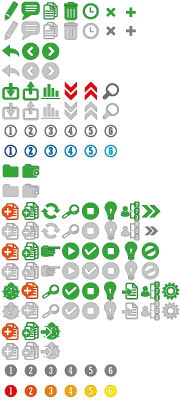
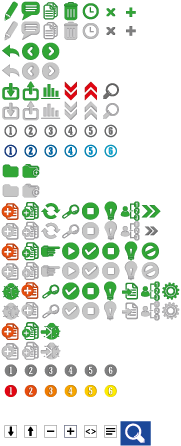
* adjust style.

diff --git a/www/theme/default/style.css b/www/theme/default/style.css
@@ -371,7 +371,7 @@ table.tablesorter thead tr .headerSortDown {background-image: url(./images/table
 .plan    {background:#ffcc00;}
 .plan a{color:green}
 .search  {display:block; float:left; clear:none; width:16px; height:16px; padding:0; margin:0 0 0 2px; text-indent:-2000px; overflow:hidden; background: url(images/main/search.gif) no-repeat;} 
-.button-search{width:40px; height:27px; padding:0; margin:0px; text-indent:-2000px; background: url(images/main/searchButton.jpg) no-repeat;} 
+.button-search{width:33px; height:24px; padding:0; margin:0px; text-indent:-2000px; background: url(images/main/zt-icons.png) -120px 24px;border-width:1px;} 
 .searchleft{display:block; float:left; clear:none;} 
 .helplink {font-size:9px}
 #bysearchTab a{color:red}
@@ -535,5 +535,9 @@ table.tablesorter thead tr .headerSortDown {background-image: url(./images/table
 #featurebar .f-right .icon-green-todo-create {padding:2px 8px;  background:url(images/main/zt-icons.png) 0px -202px;}
 #featurebar .f-right .icon-green-todo-batchCreate {padding:2px 8px;  background:url(images/main/zt-icons.png) -20px -202px;}
 
-.log-reverse{padding:2px 10px; background:url(images/main/log-reverse.png) center no-repeat}
-.switchDisplay{padding:2px 10px; background:url(images/main/switchdisplay.png) center no-repeat}
+.log-asc     {padding:2px 6px; background:url(images/main/zt-icons.png) -2px   25px;}
+.log-desc    {padding:2px 6px; background:url(images/main/zt-icons.png) -22px  25px;}
+.change-hide {padding:2px 8px; background:url(images/main/zt-icons.png) -42px  25px; border:0px;}
+.change-show {padding:2px 8px; background:url(images/main/zt-icons.png) -62px  25px; border:0px;}
+.diff-all    {padding:2px 9px; background:url(images/main/zt-icons.png) -80px  25px; border:0px}
+.diff-short  {padding:2px 9px; background:url(images/main/zt-icons.png) -100px 25px; border:0px}

diff --git a/module/user/js/common.js b/module/user/js/common.js
@@ -23,3 +23,19 @@ function switchAccount(account, method)
     location.href=link;
 }
 
+var mailsuffix = '';
+var account    = new Array();
+function setDefaultEmail(num)
+{
+    var mailValue = $('.email_' + num).val();
+    if(mailValue.indexOf('@') <= 0) return;
+    if(mailValue.indexOf('@') > 0) mailValue = mailValue.substr(mailValue.indexOf('@'));
+    mailsuffix = mailValue;
+}
+
+function changeEmail(num)
+{
+    var mailValue = $('.email_' + num).val();
+    if(mailsuffix != '' && (mailValue == '' || mailValue == account[num] + mailsuffix)) $('.email_' + num).val($('.account_' + num).val() + mailsuffix);
+    account[num] = $('.account_' + num).val();
+}

diff --git a/module/user/model.php b/module/user/model.php
@@ -222,39 +222,42 @@ class userModel extends model
      */
     public function batchCreate()
     {
-        $users = fixer::input('post')->get(); 
-        $data  = array();
+        $users    = fixer::input('post')->get(); 
+        $data     = array();
+        $accounts = array();
         for($i = 0; $i < $this->config->user->batchCreate; $i++)
         {
             if($users->account[$i] != '')  
             {
                 $account = $this->dao->select('account')->from(TABLE_USER)->where('account')->eq($users->account[$i])->fetch();
                 if($account) die(js::error(sprintf($this->lang->user->error->accountDupl, $i+1)));
+                if(in_array($users->account[$i], $accounts)) die(js::error(sprintf($this->lang->user->error->accountDupl, $i+1)));
                 if(!validater::checkReg($users->account[$i], '|(.){3,}|')) die(js::error(sprintf($this->lang->user->error->account, $i+1)));
                 if($users->realname[$i] == '') die(js::error(sprintf($this->lang->user->error->realname, $i+1)));
                 if($users->email[$i] and !validater::checkEmail($users->email[$i])) die(js::error(sprintf($this->lang->user->error->mail, $i+1)));
-                $users->password[$i] =  (isset($prev['password']) and $users->ditto[$i] == 'on') ? $prev['password'] : $users->password[$i];
+                $users->password[$i] = (isset($prev['password']) and $users->ditto[$i] == 'on' and empty($users->password[$i])) ? $prev['password'] : $users->password[$i];
+                a($users->password[$i]);
                 if(!validater::checkReg($users->password[$i], '|(.){6,}|')) die(js::error(sprintf($this->lang->user->error->password, $i+1)));
+                if(empty($users->role[$i])) die(js::error(sprintf($this->lang->user->error->role, $id)));
 
-                $data[$i]->dept     = (isset($prev['dept']) and $users->dept[$i] == 'ditto') ? $prev['dept'] : $users->dept[$i];
+                $data[$i]->dept     = $users->dept[$i] == 'ditto' ? (isset($prev['dept']) ? $prev['dept'] : 0) : $users->dept[$i];
                 $data[$i]->account  = $users->account[$i];
                 $data[$i]->realname = $users->realname[$i];
-                $data[$i]->role     = (isset($prev['role']) and $users->role[$i] == 'ditto') ? $prev['role'] : $users->role[$i];
+                $data[$i]->role     = $users->role[$i] == 'ditto' ? (isset($prev['role']) ? $prev['role'] : '') : $users->role[$i];
                 $data[$i]->email    = $users->email[$i];
                 $data[$i]->gender   = $users->gender[$i];
                 $data[$i]->password = md5($users->password[$i]); 
 
-                $prev['dept'] = $data[$i]->dept;
-                $prev['role'] = $data[$i]->role;
+                $accounts[$i]     = $data[$i]->account;
+                $prev['dept']     = $data[$i]->dept;
+                $prev['role']     = $data[$i]->role;
                 $prev['password'] = $users->password[$i];
             }
         }
+
         foreach($data as $user)
         {
-            $this->dao->insert(TABLE_USER)->data($user)
-                ->autoCheck()
-                ->batchCheck($this->config->user->create->requiredFields, 'notempty')
-                ->exec();
+            $this->dao->insert(TABLE_USER)->data($user)->autoCheck()->exec();
             if(dao::isError()) 
             {
                 echo js::error(dao::getError());
@@ -317,20 +320,27 @@ class userModel extends model
         $oldUsers     = $this->dao->select('id, account')->from(TABLE_USER)->where('id')->in(array_keys($this->post->account))->fetchPairs('id', 'account');
         $accountGroup = $this->dao->select('id, account')->from(TABLE_USER)->where('account')->in($this->post->account)->fetchGroup('account', 'id');
 
+        $accounts = array();
         foreach($this->post->account as $id => $account)
         {
             $users[$id]['account']  = $account;
-            $users[$id]['dept']     = $this->post->dept[$id];
             $users[$id]['realname'] = $this->post->realname[$id];
-            $users[$id]['role']     = $this->post->role[$id];
             $users[$id]['commiter'] = $this->post->commiter[$id];
             $users[$id]['email']    = $this->post->email[$id];
             $users[$id]['join']     = $this->post->join[$id];
+            $users[$id]['dept']     = $this->post->dept[$id] == 'ditto' ? (isset($prev['dept']) ? $prev['dept'] : 0) : $this->post->dept[$id];
+            $users[$id]['role']     = $this->post->role[$id] == 'ditto' ? (isset($prev['role']) ? $prev['role'] : 0) : $this->post->role[$id];
 
             if(isset($accountGroup[$account]) and count($accountGroup[$account]) > 1) die(js::error(sprintf($this->lang->user->error->accountDupl, $id)));
+            if(in_array($account, $accounts)) die(js::error(sprintf($this->lang->user->error->accountDupl, $id)));
             if(!validater::checkReg($users[$id]['account'], '|(.){3,}|')) die(js::error(sprintf($this->lang->user->error->account, $id)));
             if($users[$id]['realname'] == '') die(js::error(sprintf($this->lang->user->error->realname, $id)));
             if($users[$id]['email'] and !validater::checkEmail($users[$id]['email'])) die(js::error(sprintf($this->lang->user->error->mail, $id)));
+            if(empty($users[$id]['role'])) die(js::error(sprintf($this->lang->user->error->role, $id)));
+
+            $accounts[$id] = $account;
+            $prev['dept']  = $users[$id]['dept'];
+            $prev['role']  = $users[$id]['role'];
         }
 
         foreach($users as $id => $user)

diff --git a/module/common/view/action.html.php b/module/common/view/action.html.php
@@ -1,17 +1,18 @@
 <script language='Javascript'>
 var fold   = '<?php echo $lang->fold;?>';
 var unfold = '<?php echo $lang->unfold;?>';
-function switchChange(historyID,type)
+function switchChange(historyID)
 {
-    if(type == unfold)
+    changeClass = $('#switchButton' + historyID).attr('class');
+    if(changeClass.indexOf('change-show') > 0)
     {
-        $('#switchButton' + historyID).val(fold);
+        $('#switchButton' + historyID).attr('class', changeClass.replace('change-show', 'change-hide'));
         $('#changeBox' + historyID).show();
         $('#changeBox' + historyID).prev('.changeDiff').show();
     }
     else
     {
-        $('#switchButton' + historyID).val(unfold);
+        $('#switchButton' + historyID).attr('class', changeClass.replace('change-hide', 'change-show'));
         $('#changeBox' + historyID).hide();
         $('#changeBox' + historyID).prev('.changeDiff').hide();
     }
@@ -19,6 +20,17 @@ function switchChange(historyID,type)
 
 function toggleStripTags(obj)
 {
+    var diffClass = $(obj).attr('class');
+    if(diffClass.indexOf('diff-all') > 0)
+    {
+        $(obj).attr('class', diffClass.replace('diff-all', 'diff-short'));
+        $(obj).attr('title', '<?php echo $lang->action->textDiff?>');
+    }
+    else
+    {
+        $(obj).attr('class', diffClass.replace('diff-short', 'diff-all'));
+        $(obj).attr('title', '<?php echo $lang->action->original?>');
+    }
     var boxObj  = $(obj).next();
     var oldDiff = '';
     var newDiff = '';
@@ -30,17 +42,40 @@ function toggleStripTags(obj)
     })
 }
 
-function toggleShow()
+function toggleShow(obj)
 {
+    var orderClass = $(obj).find('span').attr('class');
+    if(orderClass == 'change-show')
+    {
+        $(obj).find('span').attr('class', 'change-hide');
+    }
+    else
+    {
+        $(obj).find('span').attr('class', 'change-show');
+    }
     $('.changes').each(function(){
         var box = $(this).parent();
         var switchButtonID = ($(box).find('span').find("input[type='button']").attr('id'));
-        switchChange(switchButtonID.replace('switchButton', ''), $('#' + switchButtonID).val());
+        switchChange(switchButtonID.replace('switchButton', ''));
     })
 }
 
+function toggleOrder(obj)
+{
+    var orderClass = $(obj).find('span').attr('class');
+    if(orderClass == 'log-asc')
+    {
+        $(obj).find('span').attr('class', 'log-desc');
+    }
+    else
+    {
+        $(obj).find('span').attr('class', 'log-asc');
+    }
+    $("#historyItem li").reverseOrder();
+}
+
 $(function(){
-    var diffButton = "<input type='button' onclick='toggleStripTags(this)' class='hidden changeDiff' value='<?php echo $lang->action->toggleDiff?>' >";
+    var diffButton = "<input type='button' onclick='toggleStripTags(this)' class='hidden changeDiff diff-all' title='<?php echo $lang->action->original?>' >";
     var newBoxID = ''
     var oldBoxID = ''
     $('blockquote').each(function(){
@@ -61,14 +96,16 @@ $(function(){
 <div id='actionbox'>
 <fieldset>
   <legend>
-    <span onclick='$("#historyItem li").reverseOrder();' class='hand'> <?php echo $lang->history . "[<span title='$lang->reverse' class='log-reverse'>&nbsp;</span>]";?></span>
-    <span onclick='toggleShow();' class='hand'><?php echo "[<span title='$lang->switchDisplay' class='switchDisplay'>&nbsp;</span>]";?></span>
+  <?php echo $lang->history?>
+    <span onclick='toggleOrder(this)' class='hand'> <?php echo "<span title='$lang->reverse' class='log-asc'>&nbsp;</span>";?></span>
+    <span onclick='toggleShow(this);' class='hand'><?php echo "<span title='$lang->switchDisplay' class='change-show'>&nbsp;</span>";?></span>
   </legend>
 <?php else:?>
 <table class='table-1' id='actionbox'>
   <caption>
-    <span onclick='$("#historyItem li").reverseOrder();' class='hand'> <?php echo $lang->history . "[<span title='$lang->reverse' class='log-reverse'>&nbsp;</span>]";?></span>
-    <span onclick='toggleShow();' class='hand'><?php echo "[<span title='$lang->switchDisplay' class='switchDisplay'>&nbsp;</span>]";?></span>
+    <?php echo $lang->history?>
+    <span onclick='$("#historyItem li").reverseOrder();' class='hand'> <?php echo "<span title='$lang->reverse' class='log-asc'>&nbsp;</span>";?></span>
+    <span onclick='toggleShow();' class='hand'><?php echo "<span title='$lang->switchDisplay' class='change-show'>&nbsp;</span>";?></span>
   </caption>
   <tr><td>
 <?php endif;?>
@@ -84,7 +121,7 @@ $(function(){
       ?>
       <span>
         <?php $this->action->printAction($action);?>
-        <?php if(!empty($action->history)) echo html::commonButton($lang->unfold, "id=switchButton$i onclick=switchChange($i,this.value)");?>
+        <?php if(!empty($action->history)) echo html::commonButton('', "id=switchButton$i class='hand change-show' onclick=switchChange($i)");?>
       </span>
       <?php if(!empty($action->comment) or !empty($action->history)):?>
       <?php if(!empty($action->comment)) echo "<div class='history'>";?>

diff --git a/module/user/view/batchcreate.html.php b/module/user/view/batchcreate.html.php
@@ -23,7 +23,7 @@
       <th class='w-150px'><?php echo $lang->user->realname;?></th>
       <th class='w-150px'><?php echo $lang->user->role;?></th>
       <th><?php echo $lang->user->email;?></th>
-      <th class='w-80px'><?php echo $lang->user->gender;?></th>
+      <th class='w-60px'><?php echo $lang->user->gender;?></th>
       <th><?php echo $lang->user->password;?></th>
     </tr>
     <?php $depts = $depts + array('ditto' => $lang->user->ditto)?>
@@ -32,17 +32,17 @@
     <tr class='a-center'>
       <td><?php echo $i+1;?></td>
       <td><?php echo html::select("dept[$i]", $depts, $i > 0 ? 'ditto' : $deptID, "class='select-2'");?>
-      <td><?php echo html::input("account[$i]", '', "class='text-2' autocomplete='off'");?></td>
+      <td><?php echo html::input("account[$i]", '', "class='text-2 account_$i' autocomplete='off' onchange='changeEmail($i)'");?></td>
       <td><?php echo html::input("realname[$i]", '', "class='text-2'");?></td>
       <td><?php echo html::select("role[$i]", $lang->user->roleList, $i > 0 ? 'ditto' : '', "class='select-2'");?></td>
-      <td><?php echo html::input("email[$i]", '', "class='text-3'");?></td>
+      <td><?php echo html::input("email[$i]", '', "class='text-3 email_$i' onchange='setDefaultEmail($i)'");?></td>
       <td><?php echo html::radio("gender[$i]", (array)$lang->user->genderList, 'm');?></td>
       <td>
-<?php
-echo html::input("password[$i]", '', "class='text-3' autocomplete='off'");
-echo "<input type='checkbox' name='ditto[$i]' " . ($i> 0 ? "checked" : '') . " />"
-?>
-</td>
+      <?php
+      echo html::input("password[$i]", '', "class='text-3' autocomplete='off'");
+      echo "<input type='checkbox' name='ditto[$i]' " . ($i> 0 ? "checked" : '') . " /> {$lang->user->ditto}";
+      ?>
+      </td>
     </tr>  
     <?php endfor;?>
     <tr><td colspan='8' class='a-center'><?php echo html::submitButton() . html::resetButton();?></td></tr>

diff --git a/module/user/view/batchedit.html.php b/module/user/view/batchedit.html.php
@@ -26,13 +26,15 @@
       <th><?php echo $lang->user->email;?></th>
       <th class='w-150px'><?php echo $lang->user->join;?></th>
     </tr>
+    <?php $depts = $depts + array('ditto' => $lang->user->ditto)?>
+    <?php $lang->user->roleList = $lang->user->roleList + array('ditto' => $lang->user->ditto)?>
     <?php foreach($users as $user):?>
     <tr class='a-center'>
       <td><?php echo $user->id;?></td>
-      <td><?php echo html::select("dept[$user->id]", $depts, $user->dept, "class='select-2'");?>
+      <td><?php echo html::select("dept[$user->id]", $depts, empty($user->dept) ? 'ditto' : $user->dept, "class='select-2'");?>
       <td><?php echo html::input("account[$user->id]", $user->account, "class='text-2' autocomplete='off'");?></td>
       <td><?php echo html::input("realname[$user->id]", $user->realname, "class='text-2'");?></td>
-      <td><?php echo html::select("role[$user->id]", $lang->user->roleList, $user->role, "class='select-2'");?>
+      <td><?php echo html::select("role[$user->id]", $lang->user->roleList, empty($user->role) ? 'ditto' : $user->role, "class='select-2'");?>
       <td><?php echo html::input("commiter[$user->id]", $user->commiter, "class='text-3'");?></td>
       <td><?php echo html::input("email[$user->id]", $user->email, "class='text-3'");?></td>
       <td><?php echo html::input("join[$user->id]", $user->join, "class='text-2 date'");?></td>

diff --git a/lib/front/front.class.php b/lib/front/front.class.php
@@ -443,7 +443,7 @@ EOT;
      */
     public static function commonButton($label = '', $misc = '')
     {
-        return " <input type='button' value='$label' class='button-c' $misc /> ";
+        return " <input type='button' value='$label' $misc class='button-c' /> ";
     }
 
     /**
@@ -467,7 +467,7 @@ EOT;
             $link .= $onlybody;
         }
 
-        return " <input type='button' value='$label' class='button-c' $misc onclick='location.href=\"$link\"' /> ";
+        return " <input type='button' value='$label' $misc onclick='location.href=\"$link\"' class='button-c' /> ";
     }
 
     /**

diff --git a/module/action/lang/zh-cn.php b/module/action/lang/zh-cn.php
@@ -24,7 +24,8 @@ $lang->action->action     = '动作';
 $lang->action->actionID   = '记录ID';
 $lang->action->date       = '日期';
 $lang->action->trashTips  = '提示：为了保证系统的完整性，禅道系统的删除都是标记删除。';
-$lang->action->toggleDiff = '切换DIFF';
+$lang->action->textDiff   = '文本格式';
+$lang->action->original   = '原始格式';
 
 $lang->action->dynamic = new stdclass();
 $lang->action->dynamic->today      = '今天';

diff --git a/module/user/lang/zh-cn.php b/module/user/lang/zh-cn.php
@@ -114,6 +114,7 @@ $lang->user->error->accountDupl   = "ID %s，该用户名已经存在";
 $lang->user->error->realname      = "ID %s，必须填写真实姓名";
 $lang->user->error->password      = "ID %s，密码必须六位以上";
 $lang->user->error->mail          = "ID %s，请填写正确的邮箱地址";
+$lang->user->error->role          = "ID %s，角色不能为空";
 
 $lang->user->contacts = new stdclass();
 $lang->user->contacts->common  = '联系人';

diff --git a/module/action/lang/en.php b/module/action/lang/en.php
@@ -24,7 +24,8 @@ $lang->action->action     = 'Action';
 $lang->action->actionID   = 'ActionID';
 $lang->action->date       = 'Date';
 $lang->action->trashTips  = "Tips:The deleting actions in zentao are all logic";
-$lang->action->toggleDiff = 'Toggle Diff';
+$lang->action->textDiff   = 'Text mode';
+$lang->action->original   = 'Original content';
 
 $lang->action->dynamic = new stdclass();
 $lang->action->dynamic->today      = 'Today';

diff --git a/module/common/lang/zh-cn.php b/module/common/lang/zh-cn.php
@@ -50,8 +50,8 @@ $lang->actions      = '操作';
 $lang->comment      = '备注';
 $lang->history      = '历史记录';
 $lang->attatch      = '附件';
-$lang->reverse      = '[切换顺序]';
-$lang->switchDisplay= '[切换显示]';
+$lang->reverse      = '切换顺序';
+$lang->switchDisplay= '切换显示';
 $lang->switchHelp   = '切换帮助';
 $lang->addFiles     = '上传了附件 ';
 $lang->files        = '附件 ';

diff --git a/module/common/lang/en.php b/module/common/lang/en.php
@@ -50,8 +50,8 @@ $lang->actions      = 'Actions';
 $lang->comment      = 'Comment';
 $lang->history      = 'History';
 $lang->attatch      = 'Attatch';
-$lang->reverse      = '[Reverse]';
-$lang->switchDisplay= '[Toggle Show]';
+$lang->reverse      = 'Reverse';
+$lang->switchDisplay= 'Toggle Show';
 $lang->switchHelp   = 'Toggle Help';
 $lang->addFiles     = 'Add Files';
 $lang->files        = 'Files ';
